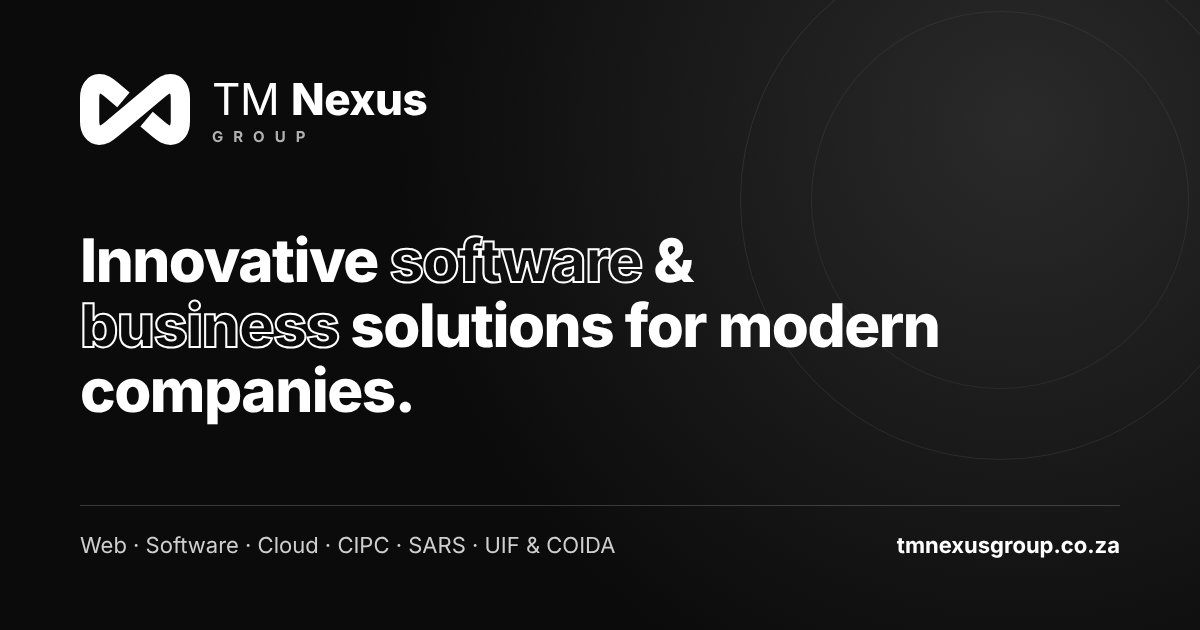
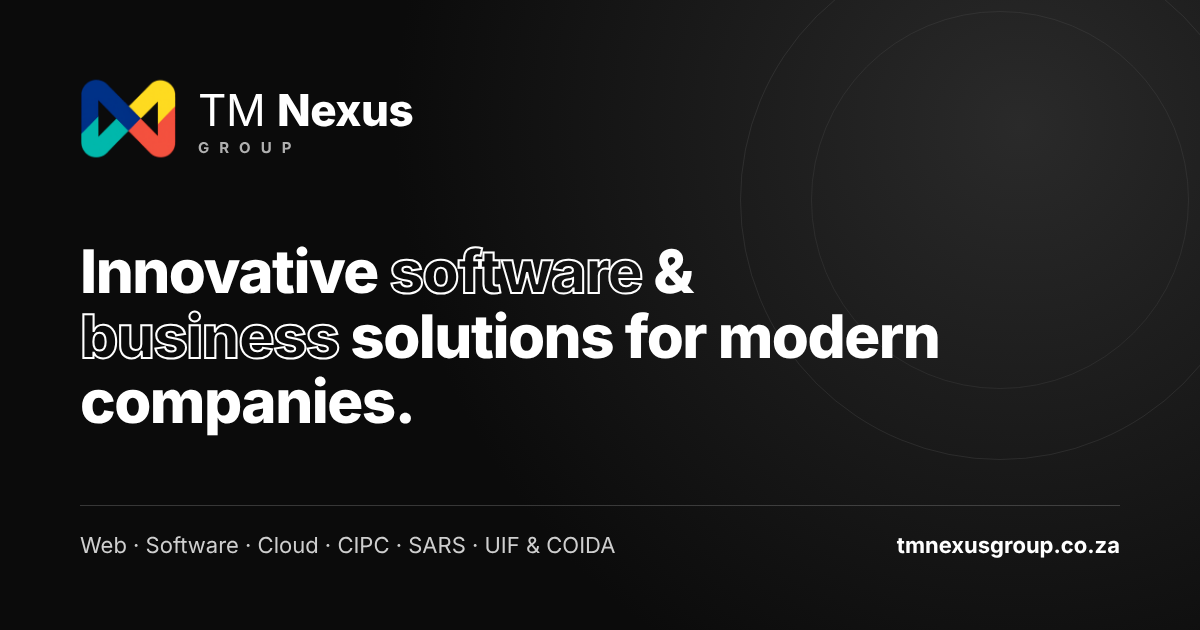
update

Changed region(s): [[0.0617, 0.3619, 0.8017, 0.6937], [0.0617, 0.1206, 0.37, 0.2714]]

diff --git a/assets/css/styles.css b/assets/css/styles.css
@@ -12,7 +12,7 @@ img{max-width:100%}
   --tech:#111111; --biz:#111111; --on-accent:#ffffff; --biz-soft:#efefef; --tech-soft:#efefef;
   --on-ink:#0b0b0b; --ink-muted:#555b61;
   /* Panels (hero, header, banners, footer): light in light mode, black in dark mode */
-  --hero-bg:#f3f3f3; --hair:#0000001f; --hair-strong:#00000040; --net:17,17,17; --panel-accent:#0b0b0b; --panel-on-accent:#ffffff;
+  --hero-bg:#f3f3f3; --hero-scrim:rgba(243,243,243,.5); --hair:#0000001f; --hair-strong:#00000040; --net:17,17,17; --panel-accent:#0b0b0b; --panel-on-accent:#ffffff;
   --header-solid:rgba(243,243,243,.9); --hero-lede:#3f3f3f; --field:#0000000a; --field-ph:#00000073;
   --f-display:"Montserrat", "Segoe UI", system-ui, sans-serif;
   --f-body:"Montserrat", "Segoe UI", system-ui, sans-serif;
@@ -22,11 +22,11 @@ img{max-width:100%}
 @media (prefers-color-scheme: dark){ :root:not([data-theme="light"]){
   --ink:#000000; --paper:#000000; --surface:#141414; --line:#2b2b2b;
   --muted:#a6a6a6; --fg:#f5f5f5; --tech:#ffffff; --biz:#ffffff; --on-accent:#0b0b0b;
-  --biz-soft:#1f1f1f; --tech-soft:#1f1f1f; --on-ink:#ffffff; --ink-muted:#a6a6a6; --hero-bg:#000000; --hair:#ffffff1f; --hair-strong:#ffffff40; --net:255,255,255; --panel-accent:#ffffff; --panel-on-accent:#0b0b0b; --header-solid:rgba(0,0,0,.82); --hero-lede:#d4d4d4; --field:#ffffff12; --field-ph:#ffffff80; color-scheme:dark }}
+  --biz-soft:#1f1f1f; --tech-soft:#1f1f1f; --on-ink:#ffffff; --ink-muted:#a6a6a6; --hero-bg:#000000; --hero-scrim:rgba(0,0,0,.55); --hair:#ffffff1f; --hair-strong:#ffffff40; --net:255,255,255; --panel-accent:#ffffff; --panel-on-accent:#0b0b0b; --header-solid:rgba(0,0,0,.82); --hero-lede:#d4d4d4; --field:#ffffff12; --field-ph:#ffffff80; color-scheme:dark }}
 :root[data-theme="dark"]{
   --ink:#000000; --paper:#000000; --surface:#141414; --line:#2b2b2b;
   --muted:#a6a6a6; --fg:#f5f5f5; --tech:#ffffff; --biz:#ffffff; --on-accent:#0b0b0b;
-  --biz-soft:#1f1f1f; --tech-soft:#1f1f1f; --on-ink:#ffffff; --ink-muted:#a6a6a6; --hero-bg:#000000; --hair:#ffffff1f; --hair-strong:#ffffff40; --net:255,255,255; --panel-accent:#ffffff; --panel-on-accent:#0b0b0b; --header-solid:rgba(0,0,0,.82); --hero-lede:#d4d4d4; --field:#ffffff12; --field-ph:#ffffff80; color-scheme:dark }
+  --biz-soft:#1f1f1f; --tech-soft:#1f1f1f; --on-ink:#ffffff; --ink-muted:#a6a6a6; --hero-bg:#000000; --hero-scrim:rgba(0,0,0,.55); --hair:#ffffff1f; --hair-strong:#ffffff40; --net:255,255,255; --panel-accent:#ffffff; --panel-on-accent:#0b0b0b; --header-solid:rgba(0,0,0,.82); --hero-lede:#d4d4d4; --field:#ffffff12; --field-ph:#ffffff80; color-scheme:dark }
 /* Black panels (header, hero, bands, footer, portfolio shots) always use white as their accent */
 header.site,.hero,.band,footer,.shot,.avatar{--biz:var(--panel-accent);--tech:var(--panel-accent);--on-accent:var(--panel-on-accent)}
 .hero{background:var(--hero-bg)!important}
@@ -70,9 +70,15 @@ html,body{overflow-x:clip}
 @media (min-width:901px){
   #p-home .hero{height:100vh;height:100svh;min-height:540px;padding-top:calc(68px + 2vh)}
   #p-home .hero > .wrap{gap:2vh}
-  #p-home .hero h1{font-size:clamp(1.7rem,min(3.8vw,5.4vh),3rem)}
-  #p-home .hero .lede{font-size:clamp(.9rem,1.9vh,1.1rem);line-height:1.6}
-  #p-home .hero .tag{font-size:clamp(.72rem,1.4vh,.9rem)}
+  #p-home .hero h1{font-size:clamp(2rem,min(4.05vw,7vh),4rem);max-width:none}
+  #p-home .hero h1 .h1l{display:block;white-space:nowrap}
+  #p-home .hero-copy{position:relative;top:3vh}
+  #p-home .hero-copy .tag{margin-bottom:3.5vh}
+  #p-home .hero .lede{font-size:clamp(1rem,2.3vh,1.3rem);line-height:1.6;max-width:44ch}
+  #p-home .hero .tag{font-size:clamp(.8rem,1.6vh,1rem)}
+  #p-home .hero-copy .btn{font-size:1rem;padding:13px 24px}
+  #p-home .hero > .wrap > .hero-facts{padding-block:12px 14px}
+  #p-home .hero{padding-top:68px}
   #p-home .hero-copy .tag{margin-bottom:2vh}
   #p-home .hero-copy h1{margin-bottom:2.4vh}
   #p-home .hero-copy .lede{margin-bottom:3.4vh}
@@ -116,6 +122,70 @@ html,body{overflow-x:clip}
 .ha-notch{position:absolute;top:6px;left:50%;transform:translateX(-50%);width:36%;height:8px;border-radius:6px;background:#2a2a2a}
 .ha-pill{font:600 .62rem/1.3 var(--f-body);background:linear-gradient(180deg,#ffffff,#e9e9e9);color:#111;border-radius:8px;padding:7px 8px;box-shadow:0 4px 10px #00000060}
 .ha-pill.dim{background:#2a2a2a;color:#d0d0d0}
+/* Hero hub graphic: glowing globe with service icons, linked by flowing lines (themed via --net) */
+.hero-hub{min-height:0!important;height:auto!important;display:grid;place-items:center}
+.hero-hub::before{display:none}
+.hub{width:100%;max-width:820px;height:auto;max-height:min(70vh,640px);overflow:visible;color:var(--on-ink)}
+@media (min-width:901px){#p-home .hero-main{grid-template-columns:minmax(0,1fr) minmax(0,1fr)}}
+/* Small screens: the globe graphic becomes a faded background behind the text, so the hero fits one screen */
+@media (max-width:900px){
+  #p-home .hero{height:100vh;height:100svh;min-height:520px;padding-top:68px;padding-bottom:0}
+  #p-home .hero > .wrap{flex:1;grid-template-rows:1fr auto;align-items:center}
+  #p-home .hero-main{grid-template-columns:1fr}
+  /* Text centred at the top, globe fully visible underneath it */
+  #p-home .hero > .wrap{align-items:start}
+  #p-home .hero-main{align-self:start;padding-top:clamp(12px,3vh,32px)}
+  #p-home .hero-copy{text-align:center;justify-items:center}
+  #p-home .hero-copy .tag{justify-content:center;margin-bottom:14px}
+  #p-home .hero-copy h1{margin-bottom:16px}
+  #p-home .hero-copy .lede{margin:0 auto 22px;max-width:36ch;font-size:1rem}
+  #p-home .hero-actions{justify-content:center}
+  /* Globe covers the whole screen as a background behind the content */
+  #p-home .hero > .wrap{position:static}
+  #p-home .hero-hub{position:absolute;inset:0;height:auto!important;z-index:0;pointer-events:none;opacity:.5;display:grid;place-items:center;margin:0;overflow:hidden}
+  #p-home .hero-hub .hub{position:absolute;left:50%;top:50%;height:100%!important;width:auto;aspect-ratio:560/450;max-width:none;max-height:none;transform:translate(-50%,-50%) scale(1.05)}
+  #p-home .hero-copy{position:relative;z-index:1}
+  #p-home .hero .hero-facts{position:relative;z-index:1;margin-top:0;padding-block:12px 16px}
+  /* Text fills the whole screen height: content spread top to bottom, bigger type */
+  #p-home .hero > .wrap{align-items:stretch}
+  #p-home .hero-main{align-self:stretch;padding-block:clamp(16px,4vh,48px)}
+  /* Same arrangement as the big screen: left-aligned, headline on three lines, stacked and vertically centred */
+  #p-home .hero-copy{display:flex!important;flex-direction:column;justify-content:center;align-items:flex-start;text-align:left;height:100%;gap:0}
+  #p-home .hero-copy .tag{justify-content:flex-start;font-size:clamp(.8rem,3.2vw,1rem);margin:0 0 3vh}
+  #p-home .hero-copy h1{font-size:clamp(1.5rem,8.3vw,3.4rem);line-height:1.08;margin:0 0 2.6vh;max-width:none}
+  #p-home .hero-copy h1 .h1l{display:block;white-space:nowrap}
+  #p-home .hero-copy .lede{font-size:clamp(.98rem,4.2vw,1.2rem);line-height:1.6;margin:0 0 3.6vh;max-width:40ch}
+  #p-home .hero-copy .hero-actions{margin:0;justify-content:flex-start}
+  #p-home .hero-copy .btn{font-size:1.02rem;padding:14px 28px}
+}
+.hub-links line{stroke:rgb(var(--net));stroke-opacity:.45;stroke-width:1.2;stroke-dasharray:4 6;animation:hubflow 2.4s linear infinite}
+@keyframes hubflow{to{stroke-dashoffset:-20}}
+.hub-ring{fill:none;stroke:rgb(var(--net));stroke-opacity:.35;transform-box:fill-box;transform-origin:center}
+.hub-ring.r1{stroke-width:1.5;stroke-dasharray:60 14 4 14;animation:hubspin 26s linear infinite}
+.hub-ring.r2{stroke-width:1;stroke-dasharray:2 8;animation:hubspin 40s linear infinite reverse}
+@keyframes hubspin{to{transform:rotate(360deg)}}
+.hub-globe{fill:none;stroke:rgb(var(--net));stroke-opacity:.35;stroke-width:1}
+.hub-globe ellipse{transform-box:fill-box;transform-origin:center;animation:hubglobe 9s ease-in-out infinite alternate}
+@keyframes hubglobe{from{transform:scaleX(.55)}to{transform:scaleX(1.15)}}
+.hub-edge{fill:none;stroke:rgb(var(--net));stroke-opacity:.6;stroke-width:1.5}
+.hub-node{animation:hubfloat 5s ease-in-out infinite alternate}
+@keyframes hubfloat{from{translate:0 -3px}to{translate:0 3px}}
+.hub-hex{fill:var(--hero-bg);stroke:rgb(var(--net));stroke-opacity:.7;stroke-width:1.4}
+.hub-ico{fill:none;stroke:currentColor;stroke-width:1.7;stroke-linecap:round;stroke-linejoin:round}
+.hub-lbl{font:600 11px var(--f-body);fill:var(--ink-muted);letter-spacing:.04em}
+.hub-node:hover .hub-hex{stroke-opacity:1;stroke-width:2}
+@media (prefers-reduced-motion:reduce){.hub *{animation:none!important}}
+
+/* Code editor on the laptop */
+.ha-code{margin:0;padding:14px 16px;background:#111111;color:#d9d9d9;font:500 clamp(.6rem,.85vw,.74rem)/1.65 ui-monospace,Menlo,Consolas,monospace;white-space:pre;overflow:hidden;height:calc(100% - 34px)}
+.ha-code .c{color:#7c7c7c}.ha-code .k{color:#ffffff;font-weight:700}.ha-code .s{color:#bdbdbd}.ha-code .ok{display:inline-block;margin-top:6px;color:#25D366;font-weight:700}
+/* Real facts under the hero button */
+.hero-proof{list-style:none;margin:28px 0 0;padding:0;display:grid;grid-template-columns:repeat(2,minmax(0,1fr));gap:14px 24px;max-width:560px}
+.hero-proof li{display:grid;gap:2px;padding-left:22px;position:relative}
+.hero-proof li::before{content:"✓";position:absolute;left:0;top:0;font-weight:800;color:var(--on-ink)}
+.hero-proof b{font-size:.88rem;color:var(--on-ink)}
+.hero-proof span{font-size:.76rem;color:var(--ink-muted)}
+@media (max-width:480px){.hero-proof{grid-template-columns:1fr}}
 @media (max-width:900px){.hero-art{min-height:300px;margin-top:8px}}
 @media (max-width:480px){.hero-art{min-height:250px}.ha-doc{width:56%}.ha-phone{min-width:104px}}
 .actions .btn,nav.main .m-quote{border-radius:50px;padding:8px 16px}
@@ -132,7 +202,7 @@ html,body{overflow-x:clip}
 @media (prefers-color-scheme: dark){ :root:not([data-theme="light"]) .theme-btn .sun{display:block} :root:not([data-theme="light"]) .theme-btn .moon{display:none} }
 .brand{display:flex;align-items:center;gap:12px;text-decoration:none}
 .brand svg{flex:none}
-.brand .mark{width:52px;height:34px;color:var(--on-ink)}
+.brand .mark{width:42px;height:42px;object-fit:contain;display:block}
 .brand b{font:400 1.15rem/1 var(--f-body);letter-spacing:-.01em;display:block}
 .brand b strong{font-weight:800}
 .brand small{font:600 .6rem/1.6 var(--f-body);letter-spacing:.42em;text-transform:uppercase;color:var(--ink-muted)}
@@ -186,6 +256,10 @@ section{padding-block:clamp(56px,8vw,96px)}
 /* Hero */
 .hero{background:var(--ink);color:var(--on-ink);position:relative;overflow:hidden;padding-block:clamp(56px,8vw,104px) clamp(56px,7vw,88px)}
 .hero canvas{position:absolute;inset:0;width:100%;height:100%;opacity:.55}
+/* Shade over the background graphics so the hero text stands out */
+#p-home .hero::after{content:"";position:absolute;inset:0;background:var(--hero-scrim);pointer-events:none;z-index:0}
+@media (min-width:901px){#p-home .hero > .wrap{z-index:1}}
+#p-home .hero .ticker,#p-home .hero .marquee{position:relative;z-index:1}
 .hero .wrap{position:relative;display:grid;gap:28px}
 .hero .tag{display:inline-flex;gap:10px;align-items:center;font:500 .78rem/1 var(--f-mono);letter-spacing:.14em;text-transform:uppercase;color:var(--biz)}
 .hero .tag::before{content:"";width:28px;height:2px;background:var(--biz)}
@@ -442,3 +516,80 @@ footer a:hover{color:var(--on-ink)}
 .founder-photo{width:96px;max-width:100%;aspect-ratio:268/408;border-radius:12px;object-fit:cover;object-position:center top;background:var(--ink)}
 .fbase{display:flex;flex-wrap:wrap;gap:12px;justify-content:space-between;border-top:1px solid var(--hair);padding-block:20px;font-size:.85rem}
 .toast{position:fixed;left:50%;bottom:calc(20px + env(safe-area-inset-bottom,0px));transform:translateX(-50%);background:var(--fg);color:var(--paper);padding:10px 16px;border-radius:8px;font-weight:600;font-size:.9rem;z-index:50}
+/* "We are the future" tag: smaller and sits higher above the headline */
+#p-home .hero-copy .tag{position:relative;top:-3vh;font-size:clamp(.66rem,1.25vh,.8rem);letter-spacing:.18em;gap:8px}
+#p-home .hero-copy .tag::before{width:22px}
+@media (max-width:900px){#p-home .hero-copy .tag{top:-3.5vh;font-size:clamp(.66rem,2.7vw,.82rem)}}
+/* "Start Your Project" button: smaller and sits lower below the paragraph */
+#p-home .hero-copy .hero-actions{position:relative;top:3vh}
+#p-home .hero-copy .btn{font-size:.88rem;padding:10px 20px}
+@media (max-width:900px){#p-home .hero-copy .hero-actions{top:3.5vh}#p-home .hero-copy .btn{font-size:.9rem;padding:11px 22px}}
+/* "Start Your Project": black button in both themes, with a white outline so it shows on the black dark-mode background */
+#p-home .hero-copy .btn-primary{background:#fff;color:#000;border:2px solid var(--accent)!important;box-shadow:0 4px 14px rgba(0,0,0,.18)}
+#p-home .hero-copy .btn-primary:hover{background:#000;color:#fff}
+/* Services strip under the hero: top border in the logo blue */
+#p-home .hero-facts{border-top:2px solid var(--accent)}
+/* Service category tabs: logo blue border */
+.tabs{border:1.5px solid var(--accent)}
+/* Selected tab: logo orange with white text */
+.tabs button[aria-selected="true"]{background:var(--accent);color:#fff}
+/* "Request a Quote" buttons in the call-to-action bands: logo blue border */
+.band .btn-primary{border:2px solid var(--logo-blue);background:transparent;color:var(--on-ink)}
+.band .btn-primary:hover{background:var(--logo-blue);color:#fff}
+/* FAQ: divider lines and +/- circles in white (dark mode) / black (light mode, where white would not show) */
+.faq{border-top:.5px solid color-mix(in srgb,var(--fg) 65%,transparent)}
+.faq details{border-bottom:.5px solid color-mix(in srgb,var(--fg) 65%,transparent)}
+.faq summary::after{border:.5px solid color-mix(in srgb,var(--fg) 65%,transparent)}
+/* Featured package (Business Start-up Pack): logo blue border */
+.pkg.featured{border:2px solid var(--accent)}
+/* FAQ "Send us a message" link in logo blue */
+#faq .sec-head a{color:var(--logo-blue);font-weight:600;text-underline-offset:3px}
+#faq .sec-head a:hover{text-decoration-thickness:2px}
+/* "Read article" buttons: logo blue border */
+.post .go.btn-ghost{border:1.5px solid var(--logo-blue)}
+.post .go.btn-ghost:hover{background:var(--logo-blue);color:#fff}
+/* Accent colour: logo blue in light mode, logo orange in dark mode. Used for button borders, tabs, featured package, newsletter, services strip line */
+:root{--accent:#0a3594;--btn-border:var(--accent)}
+:root[data-theme="dark"]{--accent:#f4533e}
+@media (prefers-color-scheme: dark){:root:not([data-theme="light"]){--accent:#f4533e}}
+.btn{border-color:var(--btn-border)!important}
+/* Newsletter sign-up: logo blue border */
+.fnews,.fnews:focus-within{border:1.5px solid var(--btn-border)}
+/* Subscribe button: light logo blue */
+.fnews .btn-primary{background:var(--accent);color:#fff}
+.fnews .btn-primary:hover{background:var(--accent);filter:brightness(.9)}
+/* Email field: black text on a white box so it reads in both themes */
+.fnews{background:#fff}
+.fnews input{color:#000}
+.fnews input::placeholder{color:#6b6b6b}
+/* Brand lockup: logo + wordmark styled like the full logo (bold caps, GROUP spaced to the same width) */
+.brand{gap:12px}
+.brand .mark{width:46px;height:46px;transition:transform .3s ease}
+.brand:hover .mark{transform:rotate(-6deg) scale(1.05)}
+.brand > span{display:inline-grid;gap:5px;padding-left:12px;border-left:1.5px solid var(--hair-strong)}
+.brand b{font:800 1.12rem/1 var(--f-body);letter-spacing:.04em;text-transform:uppercase}
+.brand b strong{font-weight:800}
+.brand small{display:flex;justify-content:space-between;font:600 .62rem/1 var(--f-body);letter-spacing:0;color:var(--ink-muted)}
+.brand small .gl{display:inline-block}
+@media (prefers-reduced-motion:reduce){.brand .mark{transition:none}}
+/* Main menu links: larger text */
+nav.main a{font-size:1rem;font-weight:300}
+nav.main a[aria-current="page"]{text-decoration:none}
+@media (min-width:901px){nav.main a{padding:6px 12px}nav.main{position:relative;top:6px}}
+/* Theme toggle and menu circles: logo blue border */
+.theme-btn,.menu-btn{border:1.5px solid var(--accent)}
+.theme-btn:hover,.menu-btn:hover{border-color:var(--accent);box-shadow:0 0 0 3px color-mix(in srgb,var(--accent) 20%,transparent)}
+:root[data-theme="dark"] #p-home .hero-copy .btn-primary{background:#000;color:#fff;border-color:#fff;box-shadow:0 0 0 3px rgba(255,255,255,.12)}
+:root[data-theme="dark"] #p-home .hero-copy .btn-primary:hover{background:#fff;color:#000}
+@media (prefers-color-scheme: dark){:root:not([data-theme="light"]) #p-home .hero-copy .btn-primary{background:#000;color:#fff;border-color:#fff;box-shadow:0 0 0 3px rgba(255,255,255,.12)}:root:not([data-theme="light"]) #p-home .hero-copy .btn-primary:hover{background:#fff;color:#000}}
+/* Logo colours on the hero hub: blue, yellow, coral, teal (lighter blue on dark backgrounds) */
+:root{--logo-blue:#0a3594;--logo-yellow:#f5c400;--logo-coral:#f4533e;--logo-teal:#0bb5a8}
+:root[data-theme="dark"]{--logo-blue:#4d7cf0;--logo-yellow:#ffd923}
+@media (prefers-color-scheme: dark){:root:not([data-theme="light"]){--logo-blue:#4d7cf0;--logo-yellow:#ffd923}}
+.lc-b{--lc:var(--logo-blue)}.lc-y{--lc:var(--logo-yellow)}.lc-c{--lc:var(--logo-coral)}.lc-t{--lc:var(--logo-teal)}
+.hub .hub-node .hub-hex{stroke:var(--lc);stroke-opacity:1;stroke-width:2}
+.hub .hub-node .hub-ico{color:var(--lc)}
+.hub .hub-node:hover .hub-hex{fill:var(--lc);fill-opacity:.15}
+.hub .hub-links line.hub-link{stroke:var(--lc);stroke-opacity:.8}
+.hub .hub-ring.r1{stroke:url(#hubLogoGrad);stroke-opacity:.9}
+.hub .hub-edge{stroke:url(#hubLogoGrad);stroke-opacity:.9}

diff --git a/index.html b/index.html
@@ -19,10 +19,11 @@
 <meta name="twitter:card" content="summary_large_image">
 <meta name="twitter:image" content="https://tmnexusgroup.co.za/assets/img/og-image.png">
 <meta name="theme-color" content="#0b0b0b">
-<link rel="icon" type="image/svg+xml" href="assets/img/favicon.svg">
+<link rel="icon" type="image/png" href="assets/img/logo.png">
+<link rel="apple-touch-icon" href="assets/img/logo.png">
 <link rel="preconnect" href="https://fonts.googleapis.com">
 <link rel="preconnect" href="https://fonts.gstatic.com" crossorigin>
-<link rel="stylesheet" href="https://fonts.googleapis.com/css2?family=Montserrat:wght@400;500;600;700;800&display=swap">
+<link rel="stylesheet" href="https://fonts.googleapis.com/css2?family=Montserrat:wght@300;400;500;600;700;800&display=swap">
 <link rel="stylesheet" href="assets/css/styles.css">
 <script type="application/ld+json">
 {
@@ -32,7 +33,7 @@
   "slogan": "We are the future",
   "description": "Software development, web design, Azure cloud and DevOps, plus CIPC, SARS and labour compliance services for South African businesses.",
   "url": "https://tmnexusgroup.co.za/",
-  "logo": "https://tmnexusgroup.co.za/assets/img/logo-mark.svg",
+  "logo": "https://tmnexusgroup.co.za/assets/img/logo.png",
   "image": "https://tmnexusgroup.co.za/assets/img/og-image.png",
   "email": "info@tmnexusgroup.co.za",
   "telephone": "+27762256601",
@@ -97,17 +98,15 @@
 <body>
 <svg width="0" height="0" style="position:absolute" aria-hidden="true">
   <defs>
-    <symbol id="logo" viewBox="0 0 800 515">
-      <path d="M316 187 L230 115 C190 82 170 70 140 70 C100 70 70 110 70 170 L70 345 C70 405 100 445 140 445 C170 445 190 433 230 400 L570 115 C610 82 630 70 660 70 C700 70 730 110 730 170 L730 345 C730 405 700 445 660 445 C630 445 610 433 570 400 L484 328" fill="none" stroke="currentColor" stroke-width="140" stroke-linejoin="round"/>
-    </symbol>
+    <symbol id="logo" viewBox="0 0 400 320"><clipPath id="lg-blue"><polygon points="0,0 200,0 200,160 0,232"/></clipPath><clipPath id="lg-teal"><polygon points="0,232 200,160 200,320 0,320"/></clipPath><clipPath id="lg-yellow"><polygon points="200,0 400,0 400,88 200,160"/></clipPath><clipPath id="lg-coral"><polygon points="200,160 400,88 400,320 200,320"/></clipPath><g clip-path="url(#lg-blue)"><path d="M36 36V284M364 36V284M36 36L364 284M36 284L364 36" fill="none" stroke="#0a3594" stroke-width="72" stroke-linecap="round" stroke-linejoin="round"/></g><g clip-path="url(#lg-teal)"><path d="M36 36V284M364 36V284M36 36L364 284M36 284L364 36" fill="none" stroke="#0bb5a8" stroke-width="72" stroke-linecap="round" stroke-linejoin="round"/></g><g clip-path="url(#lg-yellow)"><path d="M36 36V284M364 36V284M36 36L364 284M36 284L364 36" fill="none" stroke="#ffd923" stroke-width="72" stroke-linecap="round" stroke-linejoin="round"/></g><g clip-path="url(#lg-coral)"><path d="M36 36V284M364 36V284M36 36L364 284M36 284L364 36" fill="none" stroke="#f4533e" stroke-width="72" stroke-linecap="round" stroke-linejoin="round"/></g></symbol>
   </defs>
 </svg>
 
 <header class="site">
   <div class="wrap bar">
     <a class="brand" href="#home" aria-label="TM Nexus Group home">
-      <svg class="mark" viewBox="0 0 800 515"><use href="#logo"/></svg>
-      <span><b>TM <strong>Nexus</strong></b><small>Group</small></span>
+      <img class="mark" src="assets/img/logo.png" alt="" width="401" height="400">
+      <span><b>TM <strong>Nexus</strong></b><small aria-label="Group"><span class="gl" aria-hidden="true">G</span><span class="gl" aria-hidden="true">R</span><span class="gl" aria-hidden="true">O</span><span class="gl" aria-hidden="true">U</span><span class="gl" aria-hidden="true">P</span></small></span>
     </a>
     <nav class="main" id="mainNav" aria-label="Main">
       <a href="#home">Home</a>
@@ -139,35 +138,28 @@
       <div class="hero-main">
       <div class="hero-copy">
       <span class="tag">We are the future</span>
-      <h1>Innovative <span class="t">software</span> &amp; <em>business</em> solutions for modern companies.</h1>
+      <h1><span class="h1l">Innovative <span class="t">software</span> &amp;</span> <span class="h1l"><em>business</em> solutions for</span> <span class="h1l">modern companies.</span></h1>
       <p class="lede">TM Nexus Group builds your website, apps and cloud systems, and handles your CIPC, SARS and labour compliance. One partner for the tech and the paperwork, so you can get on with running the business.</p>
       <div class="hero-actions">
         <a class="btn btn-primary" href="#contact"><span class="arrow">Start Your Project</span></a>
       </div>
       </div>
-      <figure class="hero-art" aria-label="Illustration: a client website on a laptop, a CIPC registration certificate and a mobile app">
-        <div class="ha-laptop">
-          <div class="ha-bar"><i></i><i></i><i></i><span>yourbusiness.co.za</span></div>
-          <div class="ha-screen">
-            <div class="ha-nav"><b></b><span></span><span></span><span></span></div>
-            <div class="ha-head"></div><div class="ha-line" style="width:70%"></div><div class="ha-line" style="width:52%"></div>
-            <div class="ha-chart">
-              <i style="height:38%"></i><i style="height:52%"></i><i style="height:46%"></i><i style="height:64%"></i><i style="height:72%"></i><i style="height:88%"></i>
-            </div>
-          </div>
-        </div>
-        <div class="ha-doc">
-          <span class="ha-k">CIPC · CoR14.3</span>
-          <strong>Certificate of Registration</strong>
-          <div class="ha-line"></div><div class="ha-line" style="width:80%"></div><div class="ha-line" style="width:60%"></div>
-          <div class="ha-stamp">✓ Registered</div>
-        </div>
-        <div class="ha-phone">
-          <div class="ha-notch"></div>
-          <div class="ha-pill">✓ VAT201 submitted</div>
-          <div class="ha-pill">✓ UIF up to date</div>
-          <div class="ha-pill dim">Annual return · Mar</div>
-        </div>
+      <figure class="hero-art hero-hub">
+        <svg class="hub" viewBox="0 0 560 450" role="img" aria-label="TM Nexus Group connects your business: web, software, cloud, design, CIPC, SARS, UIF and COIDA, and marketing">
+  <defs><linearGradient id="hubLogoGrad" x1="0" y1="0" x2="1" y2="1"><stop offset="0" style="stop-color:var(--logo-blue)"/><stop offset=".35" style="stop-color:var(--logo-yellow)"/><stop offset=".65" style="stop-color:var(--logo-coral)"/><stop offset="1" style="stop-color:var(--logo-teal)"/></linearGradient>
+    <radialGradient id="hubGlow" cx="50%" cy="50%" r="50%"><stop offset="0" stop-color="rgb(var(--net))" stop-opacity=".55"/><stop offset=".45" stop-color="rgb(var(--net))" stop-opacity=".12"/><stop offset="1" stop-color="rgb(var(--net))" stop-opacity="0"/></radialGradient>
+    <radialGradient id="hubCore" cx="40%" cy="35%" r="70%"><stop offset="0" stop-color="rgb(var(--net))" stop-opacity=".95"/><stop offset=".5" stop-color="rgb(var(--net))" stop-opacity=".35"/><stop offset="1" stop-color="rgb(var(--net))" stop-opacity=".05"/></radialGradient>
+    <clipPath id="hubClip"><circle cx="280" cy="220" r="70"/></clipPath>
+  </defs>
+  <circle cx="280" cy="220" r="150" fill="url(#hubGlow)"/>
+  <g class="hub-links"><line class="hub-link lc-y" x1="280" y1="220" x2="322.7" y2="53.4" style="animation-delay:-0.0s"/><line class="hub-link lc-y" x1="280" y1="220" x2="459.2" y2="126.1" style="animation-delay:-0.4s"/><line class="hub-link lc-c" x1="280" y1="220" x2="490.7" y2="253.8" style="animation-delay:-0.8s"/><line class="hub-link lc-c" x1="280" y1="220" x2="398.8" y2="361.7" style="animation-delay:-1.2s"/><line class="hub-link lc-t" x1="280" y1="220" x2="237.3" y2="386.6" style="animation-delay:-1.6s"/><line class="hub-link lc-t" x1="280" y1="220" x2="100.8" y2="313.9" style="animation-delay:-2.0s"/><line class="hub-link lc-b" x1="280" y1="220" x2="69.3" y2="186.2" style="animation-delay:-2.4s"/><line class="hub-link lc-b" x1="280" y1="220" x2="161.2" y2="78.3" style="animation-delay:-2.8s"/></g>
+  <circle class="hub-ring r1" cx="280" cy="220" r="96"/>
+  <circle class="hub-ring r2" cx="280" cy="220" r="116"/>
+  <circle cx="280" cy="220" r="70" fill="url(#hubCore)"/>
+  <g class="hub-globe" clip-path="url(#hubClip)"><ellipse cx="280" cy="220" rx="18" ry="70"/><ellipse cx="280" cy="220" rx="40" ry="70"/><ellipse cx="280" cy="220" rx="58" ry="70"/><line x1="210" y1="185" x2="350" y2="185"/><line x1="210" y1="220" x2="350" y2="220"/><line x1="210" y1="255" x2="350" y2="255"/></g>
+  <circle class="hub-edge" cx="280" cy="220" r="70"/>
+  <g class="hub-node lc-y" transform="translate(322.7 53.4)" style="animation-delay:-0.0s"><path class="hub-hex" d="M22.5 13.0 L0.0 26.0 L-22.5 13.0 L-22.5 -13.0 L-0.0 -26.0 L22.5 -13.0 Z"/><g class="hub-ico"><rect x="-9" y="-7" width="18" height="12" rx="1.5"/><path d="M-4 9h8M0 5v4"/></g><text class="hub-lbl" y="42" text-anchor="middle">Web</text></g><g class="hub-node lc-y" transform="translate(459.2 126.1)" style="animation-delay:-0.7s"><path class="hub-hex" d="M22.5 13.0 L0.0 26.0 L-22.5 13.0 L-22.5 -13.0 L-0.0 -26.0 L22.5 -13.0 Z"/><g class="hub-ico"><path d="M-4 -5l-5 5 5 5M4 -5l5 5-5 5M2 -7l-4 14"/></g><text class="hub-lbl" y="42" text-anchor="middle">Software</text></g><g class="hub-node lc-c" transform="translate(490.7 253.8)" style="animation-delay:-1.4s"><path class="hub-hex" d="M22.5 13.0 L0.0 26.0 L-22.5 13.0 L-22.5 -13.0 L-0.0 -26.0 L22.5 -13.0 Z"/><g class="hub-ico"><path d="M-6 6h12a4.5 4.5 0 0 0 .5-9 6.5 6.5 0 0 0-12.4 1.5A3.8 3.8 0 0 0-6 6z"/></g><text class="hub-lbl" y="42" text-anchor="middle">Cloud</text></g><g class="hub-node lc-c" transform="translate(398.8 361.7)" style="animation-delay:-2.1s"><path class="hub-hex" d="M22.5 13.0 L0.0 26.0 L-22.5 13.0 L-22.5 -13.0 L-0.0 -26.0 L22.5 -13.0 Z"/><g class="hub-ico"><path d="M-8 8l1.2-4.6L4.5-8.3l3.4 3.4L-3.8 6.8zM2.2-6l3.4 3.4"/></g><text class="hub-lbl" y="42" text-anchor="middle">Design</text></g><g class="hub-node lc-t" transform="translate(237.3 386.6)" style="animation-delay:-2.8s"><path class="hub-hex" d="M22.5 13.0 L0.0 26.0 L-22.5 13.0 L-22.5 -13.0 L-0.0 -26.0 L22.5 -13.0 Z"/><g class="hub-ico"><path d="M-6-9h8l4 4v14h-12zM2-9v4h4M-3-1h6M-3 3h6"/></g><text class="hub-lbl" y="42" text-anchor="middle">CIPC</text></g><g class="hub-node lc-t" transform="translate(100.8 313.9)" style="animation-delay:-3.5s"><path class="hub-hex" d="M22.5 13.0 L0.0 26.0 L-22.5 13.0 L-22.5 -13.0 L-0.0 -26.0 L22.5 -13.0 Z"/><g class="hub-ico"><text x="0" y="5.5" text-anchor="middle" font-size="15" font-weight="800" stroke="none" fill="currentColor" font-family="Montserrat,Segoe UI,sans-serif">R</text></g><text class="hub-lbl" y="42" text-anchor="middle">SARS</text></g><g class="hub-node lc-b" transform="translate(69.3 186.2)" style="animation-delay:-4.2s"><path class="hub-hex" d="M22.5 13.0 L0.0 26.0 L-22.5 13.0 L-22.5 -13.0 L-0.0 -26.0 L22.5 -13.0 Z"/><g class="hub-ico"><circle cx="-3.5" cy="-4" r="3"/><path d="M-10 8c0-3.6 2.9-6.5 6.5-6.5S3 4.4 3 8"/><circle cx="5" cy="-3" r="2.4"/><path d="M5 2c2.8.4 4.6 2.6 4.6 6"/></g><text class="hub-lbl" y="42" text-anchor="middle">UIF & COIDA</text></g><g class="hub-node lc-b" transform="translate(161.2 78.3)" style="animation-delay:-4.9s"><path class="hub-hex" d="M22.5 13.0 L0.0 26.0 L-22.5 13.0 L-22.5 -13.0 L-0.0 -26.0 L22.5 -13.0 Z"/><g class="hub-ico"><path d="M-9 8h18M-6 4v4M-1 0v8M4-4v12"/><path d="M-7-2l5-4 4 2 6-5" /></g><text class="hub-lbl" y="42" text-anchor="middle">Marketing</text></g>
+</svg>
       </figure>
       </div>
       <div class="hero-facts" aria-label="Our services">
@@ -454,7 +446,7 @@
     <div class="wrap" style="display:grid;place-items:center">
       <form class="card" id="adminForm" novalidate style="width:100%;max-width:420px">
         <div class="stack" style="gap:10px;justify-items:center;text-align:center">
-          <svg viewBox="0 0 800 515" width="64" height="42" style="color:var(--fg)"><use href="#logo"/></svg>
+          <img src="assets/img/logo.png" alt="TM Nexus Group" width="52" height="52" style="object-fit:contain">
           <span class="eyebrow">Admin area</span>
           <h2 style="font-size:1.8rem">Log in to TM Nexus</h2>
           <p style="color:var(--muted);font-size:.95rem">For TM Nexus Group staff only.</p>
@@ -539,7 +531,7 @@
   </div>
   <div class="wrap fgrid">
     <div class="stack" style="gap:14px">
-      <a class="brand" href="#home" style="color:var(--on-ink)"><svg class="mark" viewBox="0 0 800 515"><use href="#logo"/></svg><span><b>TM <strong>Nexus</strong></b><small>Group</small></span></a>
+      <a class="brand" href="#home" style="color:var(--on-ink)"><img class="mark" src="assets/img/logo.png" alt="" width="401" height="400"><span><b>TM <strong>Nexus</strong></b><small aria-label="Group"><span class="gl" aria-hidden="true">G</span><span class="gl" aria-hidden="true">R</span><span class="gl" aria-hidden="true">O</span><span class="gl" aria-hidden="true">U</span><span class="gl" aria-hidden="true">P</span></small></span></a>
       <p style="color:var(--on-ink)">We are the future.</p>
       <p style="max-width:34ch">Software, cloud and design, plus CIPC, SARS and labour compliance for South African businesses.</p>
     </div>

diff --git a/404.html b/404.html
@@ -5,7 +5,7 @@
 <meta name="viewport" content="width=device-width,initial-scale=1">
 <title>Page not found · TM Nexus Group</title>
 <meta name="robots" content="noindex">
-<link rel="icon" type="image/svg+xml" href="/assets/img/favicon.svg">
+<link rel="icon" type="image/png" href="/assets/img/logo.png">
 <link rel="preconnect" href="https://fonts.googleapis.com">
 <link rel="preconnect" href="https://fonts.gstatic.com" crossorigin>
 <link rel="stylesheet" href="https://fonts.googleapis.com/css2?family=Montserrat:wght@400;500;600;700;800&display=swap">
@@ -23,7 +23,7 @@
 </head>
 <body>
 <main>
-  <img src="/assets/img/logo-mark-white.svg" alt="TM Nexus Group">
+  <img src="/assets/img/logo.png" alt="TM Nexus Group">
   <div class="code">404</div>
   <h1>This page doesn't exist.</h1>
   <p>The link may be old or mistyped. Head back to the homepage, or contact us on 076 225 6601 or info@tmnexusgroup.co.za.</p>

diff --git a/README.md b/README.md
@@ -9,8 +9,9 @@ Static website for TM Nexus Group (tmnexusgroup.co.za). No build step is needed.
 | `index.html` | All pages (Home, About, Portfolio, Insights, Contact, Admin log in, Privacy, Terms). Pages switch with `#links`, e.g. `/#contact`. Includes SEO, social sharing tags and Google business data (JSON-LD). |
 | `assets/css/styles.css` | All styles: light/dark theme colours, layout, animations. |
 | `assets/js/main.js` | Business settings, packages, FAQ, services, articles, forms, theme toggle, animations. |
-| `assets/img/logo-mark.svg` / `logo-mark-white.svg` | Logo mark in black and white. |
-| `assets/img/favicon.svg` | Browser tab icon. |
+| `assets/img/logo.png` | The official logo, used unchanged in the header, footer, admin log in, 404 page and as the browser tab icon. Replace this one file to change the logo everywhere. |
+| `assets/img/logo-full.png` | Full logo with name and tagline. |
+| `assets/img/logo-mark.svg` / `logo-mark-white.svg` / `favicon.svg` | Older logo files, no longer used by the pages. |
 | `assets/img/og-image.png` | Image shown when the site link is shared on WhatsApp, LinkedIn, Facebook. |
 | `404.html` | Page shown for broken links. |
 | `robots.txt`, `sitemap.xml` | Tell Google what to index. |
